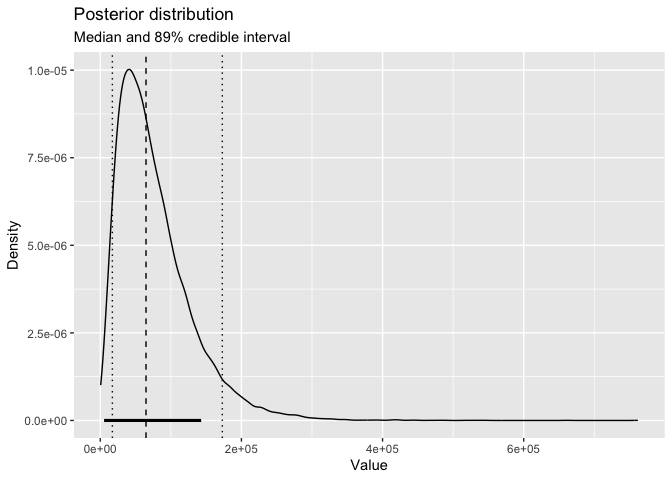
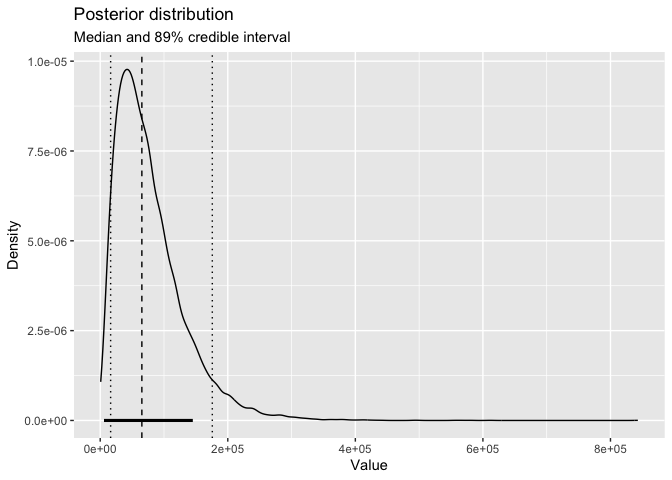
Add pkgdown site

diff --git a/README.md b/README.md
@@ -24,7 +24,7 @@ You can install the development version of fermi from
 
 ``` r
 # install.packages("pak")
-pak::pak("matthewgthomas/fermi")
+pak::pak("humaniverse/fermi")
 ```
 
 ## Example
@@ -88,9 +88,9 @@ fermi_res <- bf_fermi_simulate(
 posterior_summary(fermi_res, cred_level = 0.89)
 #> Posterior summary
 #>   Credible level: 89 %
-#>   Median        : 64805.06 
-#>   CI            : [17136.3, 172936.4]
-#>   HDI           : [5433.46, 142942.3]
+#>   Median        : 65294.03 
+#>   CI            : [16335.58, 175730.8]
+#>   HDI           : [5916.407, 145177.3]
 
 plot_posterior(fermi_res, cred_level = 0.89)
 ```
